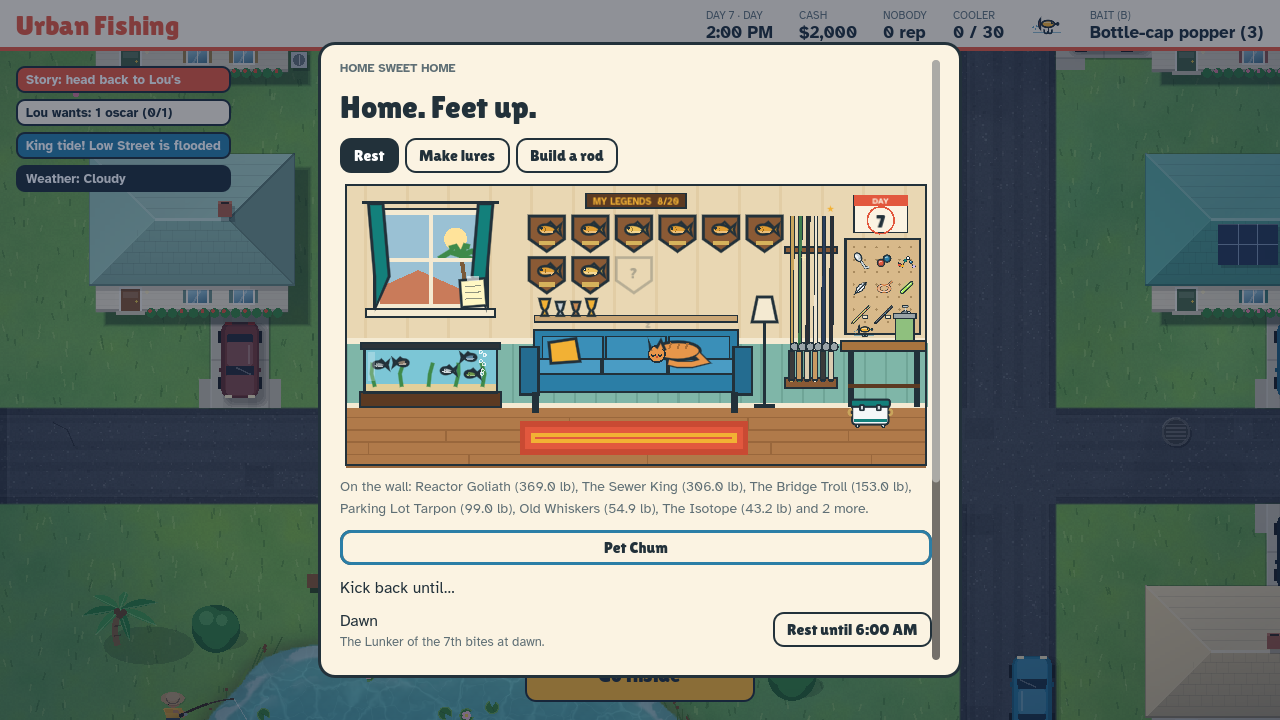
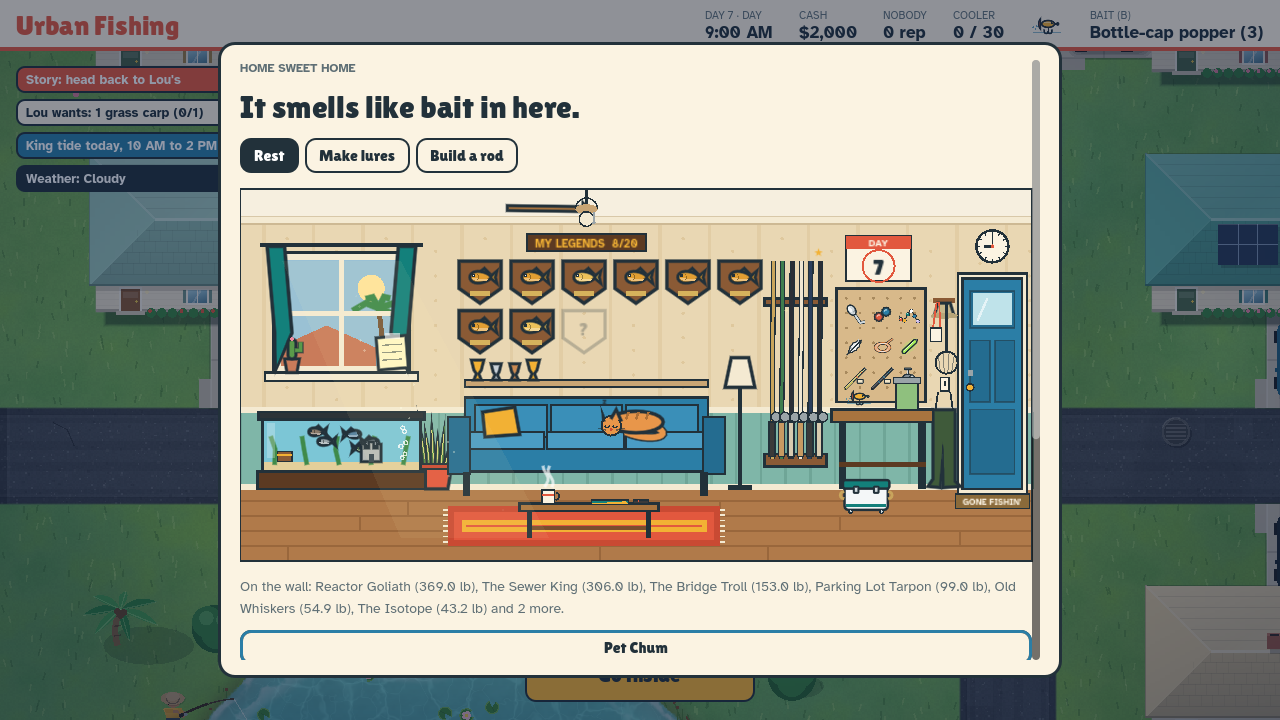
A more detailed living room, and Chum reacts when you pet him (v0.9.22) (#25)
* Home on the map, and a living room that fills up as you play (v0.9.14)

Claude-Session: https://claude.ai/code/session_01RiRsED4d29J1qu6UucXY2z

* A more detailed living room, and Chum reacts when you pet him (v0.9.22)

Claude-Session: https://claude.ai/code/session_01RiRsED4d29J1qu6UucXY2z

---------

diff --git a/CHANGELOG.md b/CHANGELOG.md
@@ -14,6 +14,7 @@ Nothing right now.
 
 | Version | Date | What it was about |
 |---|---|---|
+| v0.9.22 | Nov 18, 2026 | A bigger, more detailed living room, and Chum reacts when you pet him |
 | v0.9.21 | Nov 18, 2026 | A picture of every piece of junk, on the catch card and in Lou's Sell tab |
 | v0.9.19 | Nov 17, 2026 | Runs faster, and a Graphics quality setting (Low, Medium, High) |
 | v0.9.18 | Nov 17, 2026 | Screen polish: zoom in on a hooked fish, shake on big catches, a drawing of every fish on its catch card |
@@ -45,6 +46,23 @@ Nothing right now.
 | Browser | Nov 16, 2026 | The original game in one web page (`index.html`) |
 
 v0.1.0 to v0.3.0 were numbered afterwards; the version label started showing in the game with v0.4.0.
+
+## v0.9.22 · A more detailed living room, and a cat who reacts
+
+_Nov 18, 2026 · Builds: `UrbanFishing-v0.9.22-windows.zip`, `UrbanFishing-v0.9.22-godot-project.zip`_
+
+- The living room on the home card is bigger (the card gets wider for it) and has a lot more in it:
+  - A ceiling with crown molding and a **ceiling fan** that turns, with a light that comes on in the evening
+  - The **front door**, with a little window, a brass knob and a GONE FISHIN' doormat
+  - A **wall clock** over the door that shows the real time in the game
+  - A hook by the door with a bucket hat and a landing net. Your lanyard hangs there once you have one, and your **waders** stand by the door once you buy them (before that it's a pair of flip-flops)
+  - A **snake plant** between the tank and the couch, and a little cactus on the window sill
+  - A **coffee table** with a mug (it steams in the morning), the remote and a fishing magazine. The rug has fringe
+  - A castle and a treasure chest in the big tank
+  - **Sunlight** falls through the window across the floor by day, with dust floating in it. Clouds and rain dim it
+  - Wallpaper with a little dot pattern
+- **Pet Chum** now does something you can see. Chum wakes up for a few seconds and does one of three things: a big stretch with his paws out front, his tail up and a yawn; a roll onto his back with all four paws wiggling in the air; or a purr with his head up, eyes squeezed happy and his tail swishing. Hearts float up each time, then he curls back up and goes back to sleep
+- The tail is a smooth curve now instead of a stiff zigzag
 
 ## v0.9.21 · Pictures of the junk
 

diff --git a/godot/README.md b/godot/README.md
@@ -82,7 +82,7 @@ Everything is drawn in tile units. The `World` node is scaled to 32 pixels per t
 godot --path . --resolution 1280x720 -- --at=12,15.5,15 --day=5 --shot=storm.png
 ```
 
-starts at tile (12, 15.5) at 3 PM on day 5 (a thunderstorm day), saves a screenshot after 90 frames and quits. Other hooks: `--open=shop|gear|order|note|marina|marina-slam|journal|fame|news|map|bus|home|bench|rodbench`, `--legends=N` and `--slam=1,2,3` (fill the trophy wall and cup shelf at home), `--story=N` and `--act2=N` (jump to a story chapter), `--weigh` (enter and weigh in at the Slam), `--land`, `--cast`, `--busted`, `--boat=kayak|skiff`, `--bait=<id>`, `--bob=dx,dy[,state]`, `--twitch=-1|1`, `--rosa`, `--toast`, `--title`, `--pause`, `--controls`, `--settings`. Run `--import` twice on a fresh checkout so the fonts import before the scripts parse.
+starts at tile (12, 15.5) at 3 PM on day 5 (a thunderstorm day), saves a screenshot after 90 frames and quits. Other hooks: `--open=shop|gear|order|note|marina|marina-slam|journal|fame|news|map|bus|home|bench|rodbench`, `--legends=N` and `--slam=1,2,3` (fill the trophy wall and cup shelf at home), `--pet=kind,seconds` (hold Chum's reaction for a screenshot), `--story=N` and `--act2=N` (jump to a story chapter), `--weigh` (enter and weigh in at the Slam), `--land`, `--cast`, `--busted`, `--boat=kayak|skiff`, `--bait=<id>`, `--bob=dx,dy[,state]`, `--twitch=-1|1`, `--rosa`, `--toast`, `--title`, `--pause`, `--controls`, `--settings`. Run `--import` twice on a fresh checkout so the fonts import before the scripts parse.
 
 ## Music and sound
 
